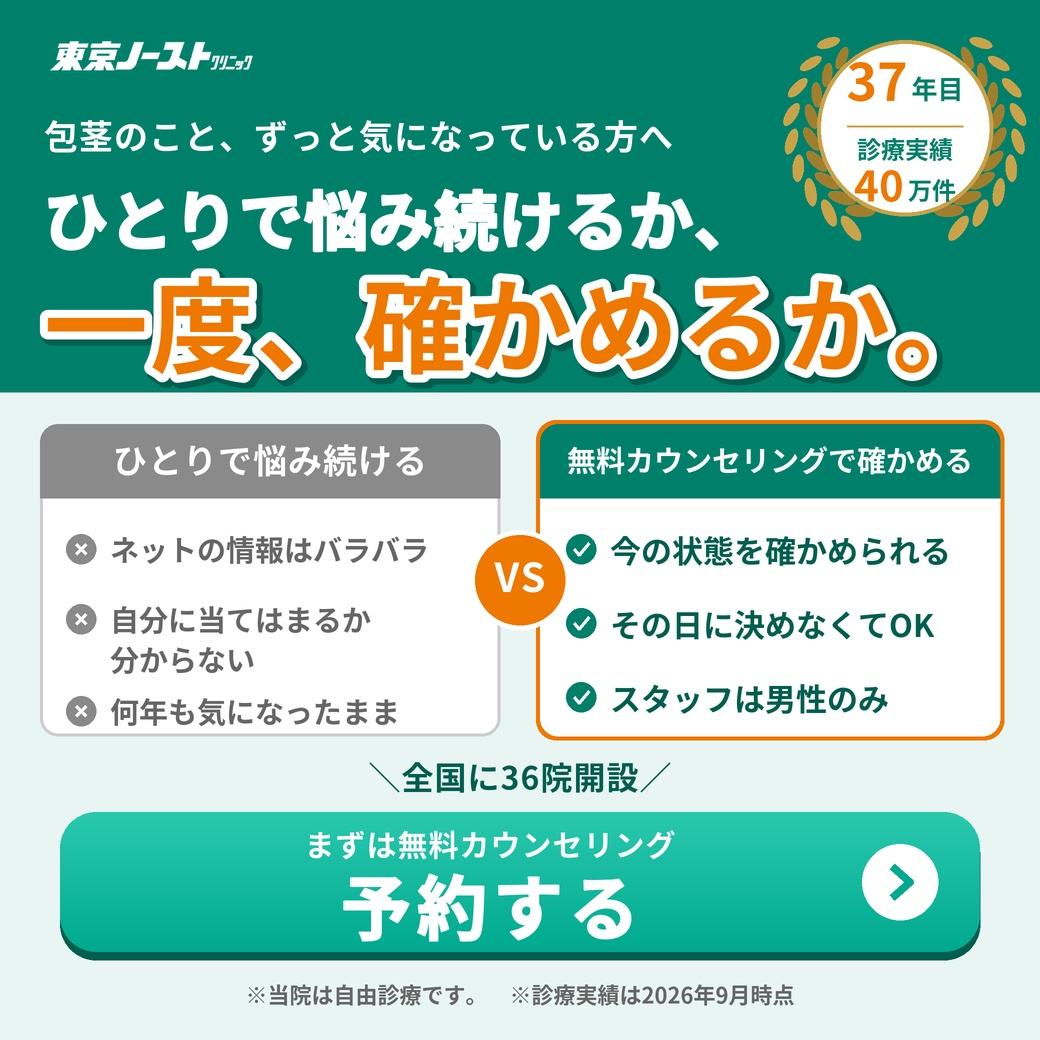
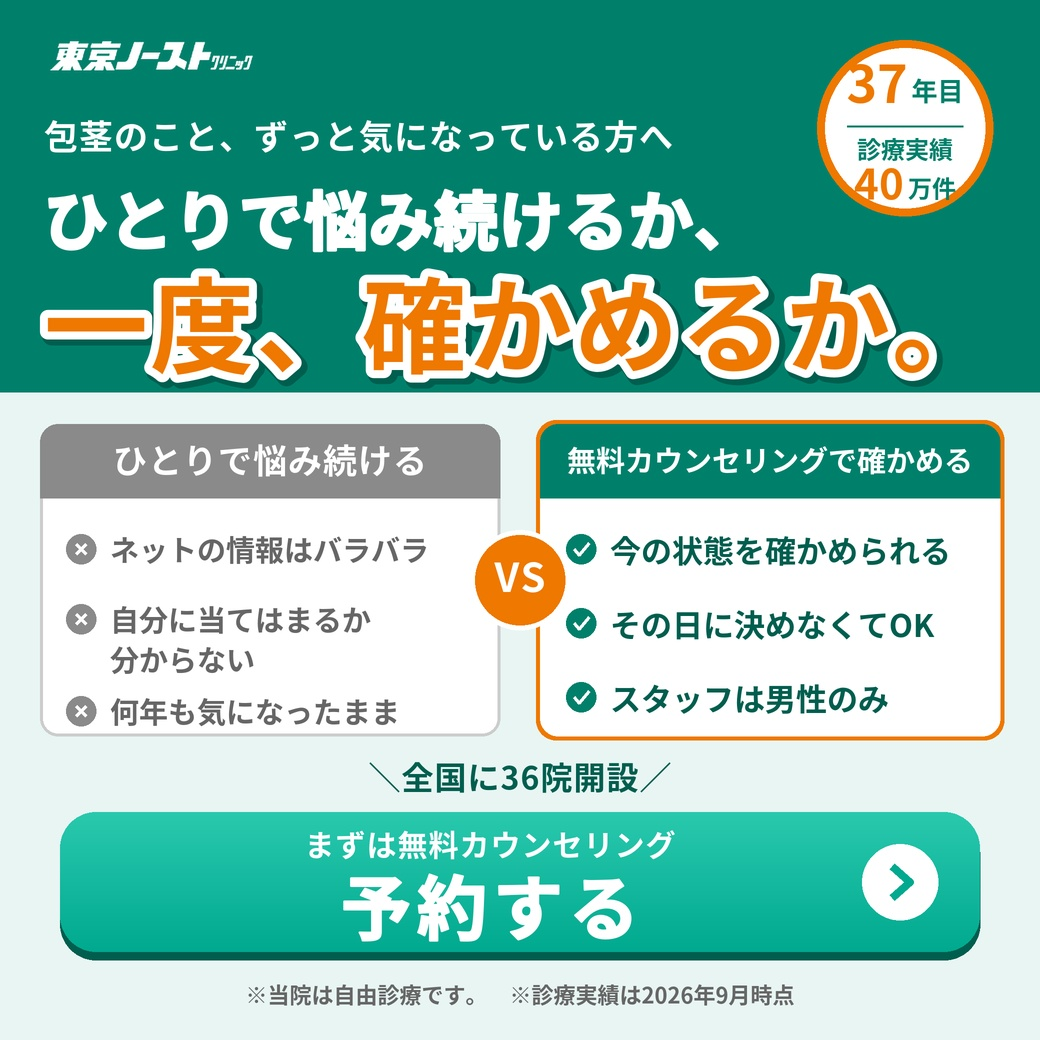
ノースト：ラフ3つから月桂樹を外し、過去のバナーと同じ白い円＋オレンジの輪に替えた
Claude-Session: https://claude.ai/code/session_01CnhQmwwAuo8Vn8DBTM29QG

Changed region(s): [[0.7385, 0.0308, 0.9846, 0.2462]]

diff --git a/_build/build_norst_1019_rough.py b/_build/build_norst_1019_rough.py
@@ -2,14 +2,13 @@
 
 競合から借りた2つを入れた形：
   ①安心の事実をアイコンで横に並べる列（完全個室／男性スタッフのみ／全国に36院／カウンセリング無料）
-  ②実績を月桂樹のバッジで見せる（37年目・診療実績40万件）
+  ②実績を白い円で見せる（37年目・診療実績40万件。過去のノーストのバナーと同じ白い円＋オレンジの輪）
 必ず残す4つ（緑が主・37年目・診療実績40万件・ロゴ）は入れている。
 ラフなので、文字の位置と量を見るためのもの。仕上げはデザイナーか画像生成で行う。
 
 使い方:
   python3 _build/build_norst_1019_rough.py [出力]
 """
-import math
 import sys
 from pathlib import Path
 from PIL import Image, ImageDraw, ImageFont
@@ -25,8 +24,6 @@ GREEN_DARK = (0x00, 0x5E, 0x4F)
 TEAL = (0x00, 0xA9, 0x8F)        # 明るい緑（HPのボタン）
 ORANGE = (0xEE, 0x78, 0x00)      # 強調のオレンジ
 PALE = (0xE8, 0xF5, 0xF3)        # 淡水色
-GOLD = (0xC9, 0xA2, 0x4A)
-GOLD_DARK = (0xA0, 0x7E, 0x2E)
 INK = (0x33, 0x33, 0x33)
 GRAY = (0x66, 0x66, 0x66)
 WHITE = (255, 255, 255)
@@ -74,46 +71,22 @@ def ellipse(d, box, fill=None, outline=None, width=1):
     d.ellipse((x1 * S, y1 * S, x2 * S, y2 * S), fill=fill, outline=outline, width=int(width * S))
 
 
-def leaf(canvas, cx, cy, length, angle_deg, color):
-    """細長い葉を1枚、中心(cx,cy)・向き angle で置く。"""
-    w, h = int(length * S), int(length * 0.42 * S)
-    im = Image.new("RGBA", (w, h), (0, 0, 0, 0))
-    ImageDraw.Draw(im).ellipse((0, 0, w - 1, h - 1), fill=color)
-    im = im.rotate(angle_deg, resample=Image.BICUBIC, expand=True)
-    canvas.paste(im, (int(cx * S - im.width / 2), int(cy * S - im.height / 2)), im)
-
-
-def laurel_badge(c, d, cx, cy, r):
-    """月桂樹のバッジ：白い円の中に 37年目／診療実績40万件。周りに金の葉。"""
-    # 葉（左右に1本ずつの枝）
-    for side in (-1, 1):
-        n = 9
-        for i in range(n):
-            t = i / (n - 1)
-            a = math.radians(118 + t * 110)          # 左の枝は 118°→228°（下から上へ）
-            if side == 1:
-                a = math.pi - a
-            lx = cx + (r + 16) * math.cos(a)
-            ly = cy + (r + 16) * math.sin(a)
-            tang = math.degrees(math.atan2(math.cos(a), -math.sin(a))) * -1
-            for k, (dr, col) in enumerate(((10, GOLD), (-10, GOLD_DARK))):
-                ox = lx + dr * math.cos(a)
-                oy = ly + dr * math.sin(a)
-                leaf(c, ox, oy, 30 - t * 6, tang + (25 if k == 0 else -25) * side, col)
-    ellipse(d, (cx - r, cy - r, cx + r, cy + r), fill=WHITE, outline=GOLD, width=4)
+def jisseki_badge(c, d, cx, cy, r):
+    """実績の円：白い円に太いオレンジの輪。37年目／診療実績40万件（過去のノーストのバナーの円と同じ形）。"""
+    ellipse(d, (cx - r, cy - r, cx + r, cy + r), fill=WHITE, outline=ORANGE, width=8)
     f1, f1s = font(52), font(26)
     f2, f3 = font(24), font(42)
     # 37年目
     w = tw(f1, "37") + tw(f1s, "年目") + 4
     x = cx - w / 2
-    text(d, "37", f1, x, cy - 66, ORANGE)
-    text(d, "年目", f1s, x + tw(f1, "37") + 4, cy - 66 + th(f1, "37") - th(f1s, "年目"), GREEN)
-    d.line(((cx - r + 30) * S, (cy - 2) * S, (cx + r - 30) * S, (cy - 2) * S), fill=GOLD, width=2 * S)
+    text(d, "37", f1, x, cy - 64, ORANGE)
+    text(d, "年目", f1s, x + tw(f1, "37") + 4, cy - 64 + th(f1, "37") - th(f1s, "年目"), GREEN)
+    d.line(((cx - r + 30) * S, (cy - 2) * S, (cx + r - 30) * S, (cy - 2) * S), fill=GREEN, width=2 * S)
     text_c(d, "診療実績", f2, cx, cy + 10, GREEN)
     w = tw(f3, "40") + tw(f2, "万件") + 4
     x = cx - w / 2
-    text(d, "40", f3, x, cy + 42, ORANGE)
-    text(d, "万件", f2, x + tw(f3, "40") + 4, cy + 42 + th(f3, "40") - th(f2, "万件"), GREEN)
+    text(d, "40", f3, x, cy + 40, ORANGE)
+    text(d, "万件", f2, x + tw(f3, "40") + 4, cy + 40 + th(f3, "40") - th(f2, "万件"), GREEN)
 
 
 def icon_door(d, cx, cy):
@@ -153,8 +126,8 @@ def build(out):
     logo = white_logo(230 * S)
     c.paste(logo, (36 * S, 30 * S), logo)
 
-    # 月桂樹のバッジ（右上）
-    laurel_badge(c, d, 905, 128, 88)
+    # 実績の円（右上）
+    jisseki_badge(c, d, 905, 128, 88)
 
     # 心の声（吹き出し）
     f_v = font(34)

diff --git a/_build/build_norst_rough_patterns.py b/_build/build_norst_rough_patterns.py
@@ -1,6 +1,6 @@
 """ノーストのバナーのラフ 3パターン（1040×1040）と、3つを並べた見比べ用の1枚。
 
-A＝安心の事実をアイコンで並べる＋実績のバッジ（10/19 No.7 のラフ。build_norst_1019_rough.py）
+A＝安心の事実をアイコンで並べる＋実績の円（10/19 No.7 のラフ。build_norst_1019_rough.py）
 B＝2つを左右に並べて比べる形（ひとりで悩み続ける／無料カウンセリングで確かめる）
 C＝本人の気持ちだけで押す一言（今年のうちに、自分のために一歩。）
 
@@ -18,7 +18,7 @@ sys.path.insert(0, str(Path(__file__).resolve().parent))
 import build_norst_1019_rough as A  # noqa: E402
 from build_norst_1019_rough import (  # noqa: E402
     S, W, H, GREEN, GREEN_DARK, TEAL, ORANGE, PALE, INK, GRAY, WHITE,
-    font, tw, th, text, text_c, rrect, ellipse, laurel_badge, white_logo,
+    font, tw, th, text, text_c, rrect, ellipse, jisseki_badge, white_logo,
     icon_door, icon_person, icon_pin,
 )
 
@@ -53,11 +53,11 @@ def footer(d):
 
 
 def head(c, d, panel_bottom):
-    """深緑の面＋ロゴ（左上）＋実績のバッジ（右上）。"""
+    """深緑の面＋ロゴ（左上）＋実績の円（右上）。"""
     d.rectangle((0, 0, W * S, panel_bottom * S), fill=GREEN)
     logo = white_logo(230 * S)
     c.paste(logo, (36 * S, 30 * S), logo)
-    laurel_badge(c, d, 905, 128, 88)
+    jisseki_badge(c, d, 905, 128, 88)
 
 
 def check(d, x, y, col):

diff --git a/_memory/INDEX.md b/_memory/INDEX.md
@@ -1,7 +1,7 @@
 # 📦 案件インデックス（おもちゃ箱の目次）
 
 **セッションを始めたら、Claudeはまずこれを読む。** 「あの案件どうなってた？」はここで解決する。
-最終更新：2026-10-08（ノースト：バナーのラフを3パターン＝見比べ用 `_images/norst_rough_ABC_sheet.jpg`（`_build/build_norst_rough_patterns.py`）。A 安心の事実を並べる／B 2つを比べる（ひとりで悩み続けるか、一度、確かめるか。）／C 自分のための一言（今年のうちに、自分のために一歩。）。どれを使うか確認待ち）／2026-10-08（ノースト：10/19 No.7（無料カウンセリング当日の流れ）のバナーのラフ＝`_images/norst_1019_rough_1040.jpg`（`_build/build_norst_1019_rough.py`）。競合から借りた2つ（アイコンの列＝完全個室・男性スタッフのみ・全国に36院・カウンセリング無料／月桂樹のバッジ＝37年目・診療実績40万件）を入れた。主役「その日に決めなくても、大丈夫です。」。確認待ち）／2026-10-07（ノースト：競合の画像5枚を受領＝`_data/norst/competitor_20261007_*.png`（上野の「抜糸あり・なし」を比べる形・アトム「悩むより、相談する。」「今こそ、自分のために一歩踏み出す。」・東京上野「通院1回、50分で包茎卒業!」・上野「50代からの新しい決断」）。借りられる4つ＝安心の事実をアイコンで並べる列（完全個室・男性スタッフのみ・全国に36院・その日に決めなくてOK）／実績を月桂樹のバッジで大きく（37年目・40万件）／本人の気持ちだけで押す一言／左右に並べて比べる形（ひとりで悩み続ける・無料カウンセリングで確かめる）。価格・治療の中身や期間・結果の約束・年齢と介護は借りない。推し＝10/19 No.7に列とバッジ、一言と比べる形は11月。OK待ち。全文は `_drafts/東京ノーストクリニック_投稿文_2026-10.md` 先頭）／2026-10-07（インクアート：10/19 ランチョンマットのバナーにサイトの写真2枚を入れた版＝`_images/inkart_1019_placemat_banner_v4_site_1040.jpg`（左＝商品の写真・右＝和紙しこくてんれい。殿村さんのスクショ2枚は `_data/printearth/lp_paper_placemat_slider_*_20261007.png`）。確認待ち）／2026-10-07（インクアート：10/19 ランチョンマットの配信時間・テキスト・フォーマル寄りの見本を出した。配信＝10/19(月) 18:05（月曜が注文数トップ・18時が注文率トップ）／アイテム名＝【新商品】紙製ランチョンマット印刷、50部から注文できます／テキスト244字。バナーは文字をこちらで組んだ（主役を明朝・飾りを外す・裏面は写真に「裏面印刷も可能！」）＝`_build/build_inkart_placemat_banner.py`・見本 `_images/inkart_1019_placemat_banner_v3_draft_1040.jpg`（写真2枚は仮）。欲しい写真＝「紙製ランチョンマット印刷」3枚と和紙の写真1枚。全文は `_2026-10.md` 先頭）／2026-10-07（インクアート：10/19 ランチョンマットのバナーv2の生成物を受領＝文字11か所とも一致・`_images/inkart_1019_placemat_banner_v2_generated.webp`。殿村さん「画像以外はいい／商品ぽくしたい、サイト内の画像を引っ張ってくるのが良いのでは」→ 文字の部分はそのまま、真ん中の絵（木のテーブルと2枚のマット）だけサイトの商品写真に入れ替える（こちらで貼り込む）。写真待ち＝ページのスライドの「紙製ランチョンマット印刷」3枚・「箔押し加工も対応」1枚・「両面フルカラー印刷で、裏面まで活用」の画像）／2026-10-07（インクアート：10/19 ランチョンマットのテキスト・備考はバナーが固まってから作り直す（殿村さん「テキストとかも後で作成しよう」））／2026-10-07（インクアート：10/19 ランチョンマットのバナーの画像生成プロンプトv2を出した（HPのトンマナ＝緑 #1C8B6A・オレンジ #FF8800・白地／主役「紙から／おもてなしを」・上の緑の帯に「新商品」「紙製ランチョンマット印刷」・表面と裏面の2枚を並べる・札3つ＝両面カラー印刷／50部から注文可能／箔押し加工にも対応・オレンジのボタン）。文字11か所。テキストの「50枚」→「50部」にそろえる提案。全文は `_2026-10.md` 先頭。HPのヘッダーのスクショ＝`_data/printearth/hp_header_20261007.png`。同日、10月の組み方（起・結＝年賀状、承・転＝カレンダーと新商品）は正しいと伝えた）／2026-10-07（インクアート：ランチョンマットの先方の返事（丸山さん）＝「超早割は問題ないので進めて／ランチョンマットは期間を定めた企画は無く通常の新商品追加なので商品紹介投稿になるかと」。殿村さん「配信するのか、しないのか」→ こちらの読み＝配信する（新商品紹介として。直されたのは「キャンペーン」という呼び方だけ・入れ替えに反対なし）。10/19＝ランチョンマット・卓上カレンダーは外れる。10/2の行はそのまま使える。LINE限定クーポンの打診は無し。最終判断は殿村さん）／2026-10-07（インクアート：2本目（No.28・10/13(火) オリジナルカレンダー）を12列の形で出した＝10月／10/13／火／18:05（案）／関連要素は空欄（確認中）／今年の年末のご挨拶に、オリジナルカレンダーを。／約700人（9月の配信先＋9/29に開いた人）／…／/lineup/calendar/／LINEOA／crm／20261013_Calendar_Original。同じ返事で10/6を開いた人のオーディエンス作成の声かけもした。行は `_drafts/プリントアース_LINEOA_配信企画案_2026-10.md` 先頭）／2026-10-07（共通：★配信の予定を伝えるときは殿村さん指定の12列の順で出す（殿村さん「今度からこのステータスにそって教えて欲しい」）＝配信月／配信日／曜日／配信予定時間／関連要素／企画案／セグメント／企画内容／URL／source／medium／campaign（source〜campaignの上の見出しがパラメルール1〜3）。シートに貼れるタブ区切りで。関連要素に何を入れるかは確認中。書き方はスキルの sheet_columns.md）／2026-10-07（インクアート：⏰10/6を開いた人のオーディエンスはまだ作らない（殿村さん「もう少し伸びを期待して／次の配信するときに教えてくれ」）。次の配信（10/13）のときにこちらから声をかける。名前＝2610_年賀状_開封・10/26の配信先に足すので遅くとも10/19のころまで・作れるのは配信から60日以内（12/5まで））／2026-10-07（インクアート：10/6(火)18:05の年賀状 超早割（ほぼ全員1,602人）の詳細画面を受領（殿村さん「これ以上は伸びなそう」）。開いた人は翌朝で270人台＝約17%（右端が切れて下1桁不明）。開封は配信した日の夜でほぼ決まり、最終は300人前後の見込み。同じ全員の9/29シール（6日後255人・15.6%）を半日で超えた。リンクを押した人は20人未満で表に出ない。次＝この回を開いた人のオーディエンスを作る（10/26締切の回に足す）・10/9にブロック3日分。記録＝`_drafts/プリントアース_数値分析_2026-10.md`（新設）・スクショ `_data/printearth/oam_message_1006_nenga_20261007.png`）／2026-10-06（インクアート：✅10月の1本目（年賀状 超早割）配信予約済（殿村さん）／ノースト：シートNo.6の行を受領（殿村さん「ええんとちゃうか」）。テキストは殿村さんの版で574字＝LINEの上限500字を超えている・行に前の予定の古いリンク（20261006_message_column&utm_content=banner）が残っている、の2点を伝えた。削る所は殿村さんの判断待ち）／2026-10-06（ノースト：緑を細くする件はやめ（殿村さん「なぁいいや」）。✅No.6の配信用画像＝v11に公式ロゴを左上に貼った `_images/norst_1012_banner_v11_logo_1040.jpg`）／2026-10-06（ノースト：v11も緑が約28%で細くならず（殿村さん「上の緑の帯が短くなってない」）。画像生成は文字の大きさを優先して高さの指定を守らない。案A＝上の帯「＼37年目、40万件の実績／」を外す（数字は円に残る・約21%）／案B＝主役を1行に（約18%）。どちらにするか確認中）／2026-10-06（ノースト：✅No.6画像の主役＝「明かりを消しても、／悩みは消えません。」。v11プロンプト（緑 約22%・ロゴは左上の角）と備考8行を出した。生成物待ち）／2026-10-06（ノースト：No.6画像の主役「先のばしにするほど…」は趣旨がずれている＋緑をもっと狭く（殿村さん）。主役の候補＝明かりを消しても、悩みは消えません。（推し）／彼女の前で、あと何回明かりを消しますか？／暗くしても、その悩みは消えません。緑は約30%→約22%（上の空きを作らずロゴは左上）。主役の返事待ち）／2026-10-06（ノースト：No.6のテキストをアイテム名の訴求から始める版に（殿村さん「これ訴求なら、テキストも訴求に合った文章じゃないとだめ」）＝495字・囲みにアイテム名の問い→札3つ→「明かりを消しても、悩みは消えません。」→主役と同じ一文。v10画像（深緑 約30%）受領・ロゴは左上に＝`_images/norst_1012_banner_v10_logo_1040.jpg`）／2026-10-06（ノースト：No.6のテキストを画像と同じ言葉にそろえて直した（殿村さん「テキストと画像の内容が少しあってない」）＝496字・札3つを✓で・主役と同じ「先のばしにするほど進むこともあります」・「スタッフは【全員男性】」「その日に決めなくても大丈夫です」）／2026-10-06（ノースト：v9は「画像の中身何も変わってないで」＝深緑の面が約41%→約34%と少ししか細くならず、上の空きが広がって見た目は同じ。v10プロンプト（深緑を上4分の1・上の空き40px・主役2行を高さ約130pxに）を出した）／2026-10-06（ノースト：No.6のテキストを9/16の実配信の型に倣って書き直し（殿村さん「一定以下の文章を倣うこと」）＝490字・※の3行が先頭・囲み「明かりを消して、やり過ごしてきた方へ」。この型はスキルの clients/norst.md に全文。備考はOK。v9画像は殿村さんが生成中）／2026-10-06（ノースト：✅No.6のアイテム名＝「彼女の前で、あと何回明かりを消しますか？」。テキスト案490字（1行目＝通知は「まだ大丈夫」のまま、何年たちましたか？ のまま）・備考8行・上の緑を細くしたv9プロンプト（深緑の面 約41%→約33%）を `_drafts/東京ノーストクリニック_投稿文_2026-10.md` 先頭と `.json` No.6 に。v9生成物待ち）／2026-10-06（ノースト：殿村さん案「彼女を後何回、電気でごまかせますか？」をマイルドにした3つ＝彼女の前で、あと何回／電気でごまかせますか？（推し・「彼女を」→「彼女の前で」だけ）／…電気を消して隠しますか？／…明かりを消しますか？。判断待ち）／2026-10-06（ノースト：No.6主役の折衷案3つ（殿村さん「女の要素も少し」）＝彼女の前で、あと何回／電気でごまかしますか？（推し）／隣で眠る彼女に、あと何回ごまかしますか？／彼女の前では、今夜も電気を消しますか？。判断待ち）／2026-10-06（ノースト：殿村さん案「彼女とする時、後どれだけ電気でごまかしますか？」→ こちらは「あと何回、電気でごまかしますか？」に戻すのを推す（性の場面まで書くと単なるエロ・画面を横から見られる・医療広告の品位・「彼女」だと既婚の人が外れる）。判断待ち）／2026-10-06（ノースト：No.6の主役は殿村さん案の2つに絞り中＝「その悩み、打ち明ける人いますか？」／「あと何回、電気でごまかしますか？」。こちらの推し＝前者（1本目の「隠し続けますか？」と分かれる・全員男性と無料カウンセリングが答えになる・先方確認で止まりにくい）。後者は別の回の切り札に）／2026-10-06（ノースト：No.6の主役「もっと気持ちが悪いの」（殿村さん）→ 本人しか知らない行動・気持ちを言い当てる案4つ＝今夜も、気づかれないように。（推し）／何年、ごまかしてきましたか？／その悩み、隣で眠る人は知っていますか？／あと何回、電気を消してごまかしますか？。選んでもらい中）／2026-10-06（ノースト：No.6の主役は「その悩み、あと何年抱えますか？」の方向で別案4つ＝いつまで抱えますか？／来年も抱えていますか？（推し）／10年後も、同じ悩みを抱えていますか？／ひとりで悩んだ時間、もう十分ではありませんか？。選んでもらい中）／2026-10-06（ノースト：No.6の主役の2行をもっと強くしたい（殿村さん「満足のいく、自分でいれていますか？みたいな訴求か、もっと強く」）。候補＝①満足のいく自分で、いられていますか？②いまの自分に、胸を張れていますか？③その悩み、あと何年抱えますか？（推し・1本目の「そのままの自分で大丈夫？」と似ないため）。認識合わせ中）／2026-10-06（ノースト：✅No.6の画像が決定（殿村さん「ええんちゃうか」）＝`_images/norst_1012_banner_v8_logo_1040.jpg`。文字すべて一致。ロゴは上の空きが狭く横166px。シートNo.6の備考8行を新しい画像に合わせて直した（`_2026-10.json`）。No.6の配信日は1本目（No.5）の配信日しだい）／2026-10-06（ノースト：No.6の画像 v8 プロンプト（全文）＝殿村さん「彼女側を明るくして、男側暗くしようぜ」。灯りは彼女の側、彼は暗がりの後ろ姿（主役）、彼女は彼の右奥で眠る、札は右端、影は暗い茶色。生成物待ち）／2026-10-06（ノースト：No.6の画像 v7 プロンプト（全文・添付なし）を出した＝彼が主役（ベッドの端で背中を少し丸めた後ろ姿・殿村さん「背筋は丸めてええ」）・彼女は手前で眠りほぼ隠れる・主役「先のばしにするほど、進むこともあります。」・札3行。生成物待ち）／2026-10-06（ノースト：No.6の絵の案を出し直し。手が重なりかけて引く案は殿村さん「コンセプトは包茎治療やで、単なるエロになってない？」で不採用。新しい案＝彼が一人でベッドの端に腰かける後ろ姿が主役・奥で彼女が眠っている程度。OK待ち）／2026-10-06（ノースト：No.6の絵も少し変えてよい（殿村さん）。案＝2人のポーズを札3枚目「ふたりきりだと、ためらう」に合わせる（手が重なりかけて少し引く・わずかなすき間）。認識合わせ中）／2026-10-06（ノースト：✅No.6（2本目）は「まだ大丈夫」の訴求で決定。画像はv6（寄り添う2人＝コンプレックス＋少しエロ）を使い、文字だけ差し替え＝主役「先のばしにするほど、／進むこともあります。」、札「まだ大丈夫、と思ってきた／年々、気になってきた／ふたりきりだと、ためらう」。v6を添付して文字だけ直すプロンプトと作り直し用の全文を `_drafts/東京ノーストクリニック_投稿文_2026-10.md` 先頭に。シートNo.6の備考は画像が決まってから書き直す）／2026-10-05（ノースト：今朝の画像（v6・緑）は今月2本目（No.6・10/12）に回し、別の訴求で出す（殿村さん）。推し＝No.6に入れてある「まだ大丈夫」のまま、何年たちましたか？（悩み訴求）。v6の主役は1本目の画像と同じ言葉なので、主役と悩みの3行を変える案。認識合わせ中）／2026-10-05（ノースト：⏸ No.5は阿久津さんに確認依頼中・返事待ち。1（本日配信）なら画像を1枚目に差し替えて予約、2なら指摘をもらって直す）／2026-10-05（ノースト：殿村さんの短い版を確認＝ほぼ良し。選択肢の上に「本日の配信可否につきまして、以下の番号にてご指示いただけますと幸いです。」を戻す案・メンションの付け忘れ注意を返した）／2026-10-05（ノースト：阿久津さんへの連絡文は殿村さんの版で送る（1行目で「本日配信予定（10/5分）の件でご相談」→理由→状況の質問→番号で指示を、の形）。社内の確認の連絡文はこの形を使う）／2026-10-05（ノースト：阿久津さんへの連絡文の最終＝締めは「本日配信したいのですが、いかがでしょうか。」＋9/30と同じ2択（1.本日この内容で配信する／2.変更・調整あり）。前の段の「遅くとも明日には」は消した（聞く日付は本日の1つだけ）。全文は `_drafts/東京ノーストクリニック_投稿文_2026-10.md` 先頭）／2026-10-05（ノースト：先に出すのは1枚目＝阿久津さんに共有済みの画像 `_images/norst_1005_banner_before_1040.jpg`。2週目以降は2枚目（v6・緑が主）の形に寄せる。阿久津さんへの連絡文は「今日の可否／今月は毎週なので今日か明日に」の版に作り直し）／2026-10-05（ノースト：配信は阿久津 執行役員部長の確認（1.本日配信／2.変更・調整あり）を通してから。画像の主役「いざというとき、そのままの自分で大丈夫？」は阿久津さんの指摘（9/30）。今日配信したい旨の連絡文を作った）／2026-10-05（ノースト：No.5は来週にずれる可能性あり（殿村さん）。ずれたら多少直して出す。必ず直すのはリンクの日付だけ。No.6・No.7も後ろにずらすか要判断。修正の中身は確認中）／2026-10-05（ノースト：No.5（10/5）の仮最終の配信方針・内容をまとめた＝`_drafts/東京ノーストクリニック_投稿文_2026-10.md` 先頭。アイテム名・画像（v6＋ロゴ）・テキスト499字・リンク2本・男性全員・21:00（仮））／2026-10-05（ノースト：No.5のプレビューを確認＝テキスト・画像（v6＋ロゴ）・アイテム名とも一致。テキストの最後（電話番号の行）が半分で切れているのはプレビューの表示の都合。確実に見るならテスト配信）／2026-10-05（ノースト：✅No.5のアイテム名は今のまま「見せるのが恥ずかしい…」大切な人にも、隠し続けますか？（殿村さん「おけいです」）。テキストはシートNo.5の文 499字を渡した）／2026-10-05（ノースト：No.5のアイテム名に殿村さんが【特別案内】人肌恋しい季節…朗報です、を検討 → こちらは今の「見せるのが恥ずかしい…」大切な人にも、隠し続けますか？を推す（画像の札・本文とつながる／「朗報です」は3回目／「気になっている方」はぼんやり）。柔らかくするなら9/29の「その気持ち、ひとりで抱えていませんか？」版。判断待ち）／2026-10-05（ノースト：v6の生成物＝文字16か所一致・深緑は無地・寄り添う2人。ロゴを貼った配信用＝`_images/norst_1005_banner_v6_logo_1040.jpg`。別のAIの改善点6つは今日は取り入れない（理由は投稿文_2026-10.md 先頭））／2026-10-05（ノースト：v5の光の筋は「漫画の登場シーン」で不採用、寄り添う2人は残す。余白はB（飾りなし・上の2行を少し大きく）→ v6プロンプトを `_drafts/東京ノーストクリニック_投稿文_2026-10.md` 先頭に。生成物待ち）／2026-10-05（ノースト：殿村さん「左・右上の余白が気になる」「2人を大きくする案を見たい」→ v5プロンプト（2人を絵の主役に＋上の2行を少し広げ、深緑の面にごく薄い放射状の光の筋）を `_drafts/東京ノーストクリニック_投稿文_2026-10.md` 先頭に。生成物待ち）／2026-10-05（ノースト：No.5の画像はv4（肩に頭をあずける版）で十分いける、と返した（殿村さん「こんなバナーもええかぁ」）。ロゴを貼った配信用＝`_images/norst_1005_banner_v4_logo_1040.jpg`）／2026-10-05（ノースト：次回（No.5）の配信内容の想定を仮で出した＝`_drafts/東京ノーストクリニック_投稿文_2026-10.md` 先頭。画像は最後の版（v4）、テキストはシートNo.5の文（499字・URLは20261005_Complex_text）を仮で。未決＝画像を2人を大きくした版にするか／テキストを9/30の「元の案」（358字）にするか）／2026-10-05（インクアート：10/5は下書き保存済み（殿村さん「直ってる大丈夫」）。プレビューでテキストの最後の「👇ご注文はこちらから！」が抜けていた → 意図でなければ足すよう伝えた。「す」だけ落ちる行は「印刷は／それ以降となります」に）／2026-10-05（インクアート：✅10/5のアイテム名＝殿村さん案「✨今年の年賀状、超早割で最大25%OFF！」（21字）で決定）／2026-10-05（インクアート：アイテム名の見直しの推しを「✨毎年の年賀状、今年は超早割で最大25%OFF」に変更（「取引先への」は取引先に出さない人が読み飛ばしやすい）。utm_campaignは前の形とも違いは名前だけで、どちらでも計測できる（殿村さん「そんなに変わらん」）。GA4は `20261005` で探す）／2026-10-05（インクアート：配信のutm_campaignは9/10の実配信 `20260910_Registration_Milion_Coupon` の形にそろえる。10/5のリンク＝`…/lineup/nenga/?utm_source=LINEOA&utm_medium=crm&utm_campaign=20261005_NewYearCard_EarlyBird`。設定画面は確認済み。アイテム名の絵文字は設定のときに試して決める（通った✨／はじかれた🎍）。アイテム名の見直しの推し＝「✨取引先への年賀状、超早割で最大25%OFF」（判断待ち））／2026-10-05（インクアート：10/5の設定中、アイテム名の🎍が「利用できない文字」でエラー → ✨に差し替え）／2026-10-05（インクアート：9/29シール回の詳細画面を再受領＝開いた人255・15.6%（10/1時点236）。約8割は配信当日の夜に開封。テキストの表示は20未満、バナーは281回。実際のアイテム名は「【1枚からOK】✨キラキラシールも好きな形も」）／2026-10-02（インクアート：先方への確認文は殿村さんの版で送る。ランチョンマットは「10/19の卓上カレンダーと組み替えるか」を先方に確認＝10/13のオリジナルカレンダーは残る。返事待ち）／2026-10-02（インクアート：10/5の先方への確認文の下書きを受領。配信は10/5 18:05。送る前の直し4点＝配信内容を確定版に／セグメント「20～64歳」→全員の予定（答え待ち）／ランチョンマットは「キャンペーン内容」でなく「10/19の新商品」と書く／かっこの半角）／2026-10-02（インクアート：✅10/5（年賀状 超早割）の配信文とアイテム名が確定＝殿村さん「これでええんちゃうか」。期限の行は「～10月31日までの／受付分が対象です」）／2026-10-02（インクアート：10/5（年賀状 超早割）はアイテム名を修正なし（「🎍年賀状印刷が最大25%OFF！超早割がスタート」）、配信文は2か所だけ直す＝「ご注文分」→バナーと同じ「受付分」・長い行を12字以内に折る。全文は `_2026-10.md` 先頭）／2026-10-02（インクアート：10/5（年賀状 超早割）の完成版バナーを受領＝`_images/inkart_1005_nenga_hayawari_kansei_1040.jpg`。アイテム名の推し＝「🎍年賀状印刷が最大25%OFF！超早割がスタート」（24字）。配信の推し＝10/5(月) 17:05・全員（9/29の全員配信とそろえる）。テキスト「ご注文分」とバナー「受付分まで」の言い方が1か所違う。先方確認のときにランチョンマットの回と並び替えも一緒に）／2026-10-02（ノースト：No.5（10/5）の画像v4のプロンプトを出した＝寝室の絵だけ色気を足す（肩に頭をあずける・手が重なる・灯りは枕元の1つ）。v3＋ロゴ＝`_images/norst_1005_banner_v3_logo_1040.jpg`。生成物待ち→ロゴを貼り込む→文章とシートNo.5の備考。必ず残す4つ＝緑が主・37年目・診療実績40万件・ロゴ）／2026-10-02（インクアート：ランチョンマットの回（No.29・10/19）と並び替えは⏸先方確認待ち。10/5（年賀状 超早割）のバナーを先方に確認してもらうときに一緒に確認し、変更が出たらすぐ直す（殿村さん「変えるなら直ちに変えよう」））／2026-10-02（インクアート：ランチョンマットの回をシートの行にした＝No.29（10/19）・21列・`_drafts/プリントアース_LINEOA_配信企画案_2026-10.json`。テキスト・備考・画像生成プロンプト全文は `_2026-10.md` 先頭。シートはNo.28（10/13）に卓上カレンダーの中身を移す）／2026-10-02（インクアート：新商品「紙製ランチョンマット」を10月に入れる。並び＝10/5 年賀状→10/13 卓上カレンダー→10/19 ランチョンマット→10/26 締切（殿村さん案）。LP本文は `_data/printearth/lp_paper_placemat_20261002.md`）／2026-10-01（ノースト10月：殿村さんがシートのNo.5を貼付→ 10/5(月) No.5・10/12(月・祝) No.6・10/19(月) No.7 に変更。No.6・7をNo.5と同じ値（全50列）で出した＝`_drafts/東京ノーストクリニック_投稿文_2026-10.json`。No.5はテキストのURLの日付（→20261005_Complex_text）とアイテム名の空欄だけ直す）／2026-10-01（ノースト10月：スキルで3本を作成＝10/3・10/10・10/17(土)。ノーストのシートの並び（27列）で出せるようにした。空欄の列は9月の行をもらって埋める）／2026-10-01（企画案を自動で出す仕組み①＝スキル `lineoa-monthly-plan` を新設。3案件・シート21列。確認中＝納品日の書き方・aaの中身。②材料の置き場所・③月1回の自動下書きはまだ）／2026-10-01（インクアート：10月の配信先＝10/5（超早割スタート）は全員で確定（殿村さん「最初は全員だよ」）・10/13・10/19は約700人・10/26は約700人＋10/5に開いた人。配信戦略の簡潔版を `_drafts/プリントアース_10月の配信戦略まとめ_2026-09-30.md` 先頭に）／2026-10-01（インクアート：前提＝友だちが多いのはCPF（4〜8月の友だち追加広告・流入の9割以上）で集めたから。実際の相手は反応する約650人。9月のまとめの先頭に入れた）／2026-10-01（インクアート：9月の配信結果を簡潔にまとめた＝分析ファイル末尾。GAは件数変わらず＝会員登録4・購入4、全部リッチメニュー経由）／2026-10-01（インクアート：9月の実績を受領＝9/29全員配信 開封14.4%・ブロック2日で+25／9月 新しい友だち+9・ブロック+72。10月の配信先＝9月の約650人＋9/29に開いた人。GAは殿村さんが依頼中）／2026-10-01（ハウス食品：ステイ）／2026-10-01（ハウス食品：全体設計も共有用のmarkdownにまとめた）／2026-10-01（ハウス食品：運用計画を共有用のmarkdownにまとめた）／2026-10-01（ハウス食品：最初の1週間の徹底・ステップ配信例5本・冬の企画案をざっくり置いて本日終了）／2026-10-01（ハウス食品：運用の落とし込み＝目標→1日の数字とやることを設計ファイルに・スライドにはしない）／2026-10-01（ハウス食品：方針確定＝グループのLINEとは別にカモンハウスのLINEを新しく作って運用・コンセプト＝食と健康でつながるコミュニティ）／2026-10-01（ハウス食品：「今あるLINE」＝カモンハウスの広告用のLINEと訂正。新しく作る／今あるのを動かす の違いと推しを設計ファイルに）／2026-10-01（ハウス食品：①ステップ初動5本・2週間 ②通知メッセなし ③既存会員への告知はメルマガ頼み、で決定。根拠と「今あるグループ公式LINEを動かす場合」の違いを設計ファイルに）／2026-10-01（ハウス食品：ver2を基に全体設計・初動設計の骨組みを提案）／2026-10-01（ハウス食品グループ＝Come on Houseが3件目になりそう・提案書と案件メモを保存）／2026-09-30（インクアート：10月の配信戦略まとめを作成／ノースト：3本目は配信予約済・先方確認待ち）／2026-09-30（ノースト：3本目はテキスト＝元の案・アイテム名＝直した案で配信）／2026-09-30（インクアート：サンクス＋離脱防止の提案PPTX 12枚を縮小版に作り直し＝`20260930_インクアート様_LINE公式アカウント_10月以降のご提案.pptx`）／2026-09-29 20時半（ノースト：3本目は9/30(水)に変更）／2026-09-29 20時（ノースト：9/29は候補A＝直した版／候補B＝元の版の2つを保持・先方確認待ち）／2026-09-29（ノースト：9/29の3本目をシートどおり＝男性全員で確定・バナー `_images/norst_0929_banner.webp`／インクアート：No.25シールを9/29 17:05・全員 約1,635人で配信確定。バナーは先方差し戻しを受けて「自由形状カット・ホログラム加工」版に差し替え。9月の数値分析は3本分済み・ノーストの分も受領済み）／2026-09-25（ノースト：10/9の1本目が本文・備考・プロンプトまで完成＝悩み訴求「まだ大丈夫」のまま、何年たちましたか？。詳細は下の表の行）／**ノーストのSW訴求（新2本目）は9/24に配信済み（9/25昼の時点で反響なし）**／それ以前 2026-09-24（ノースト：9/25＝新2本目「シルバーウィーク訴求」全配信7,347・21:00で**配信予約済み**→実際は9/24配信・通数の数え方を訂正（1配信＝1人1通）・3本目は9/29のまま・旧2本目は無視／インクアート：10月ステイ解除・先方依頼の「年賀状 超早割（最大25%OFF・～10/31）」を10/5に置き年賀状の回は1本に。No.24は名刺押しに微修正・バナーは実物名刺の写真で確定（先方確認中）。10月はNo.27の8欄が揃い一旦ステイ。**同日、配信設計（9/25 No.24・9/28 No.25）を確定**＝No.23と同じ設定（20〜64歳・テキスト→バナー）・No.24のutmは20260925に・9月通数 約4,100／5,000・10月はシート4本とも全員で5,600なので10/26だけ絞り込み・待ち＝9/18の実績4つ）
+最終更新：2026-10-08（ノースト：ラフ3つから月桂樹を外し、過去のバナーと同じ白い円＋オレンジの輪に替えた（殿村さん「ノーストに月桂樹ではないっていう話じゃないの？」）。月桂樹は競合の飾りなので使わない）／2026-10-08（ノースト：バナーのラフを3パターン＝見比べ用 `_images/norst_rough_ABC_sheet.jpg`（`_build/build_norst_rough_patterns.py`）。A 安心の事実を並べる／B 2つを比べる（ひとりで悩み続けるか、一度、確かめるか。）／C 自分のための一言（今年のうちに、自分のために一歩。）。どれを使うか確認待ち）／2026-10-08（ノースト：10/19 No.7（無料カウンセリング当日の流れ）のバナーのラフ＝`_images/norst_1019_rough_1040.jpg`（`_build/build_norst_1019_rough.py`）。競合から借りた2つ（アイコンの列＝完全個室・男性スタッフのみ・全国に36院・カウンセリング無料／月桂樹のバッジ＝37年目・診療実績40万件）を入れた。※月桂樹は同日に外して白い円に替えた。主役「その日に決めなくても、大丈夫です。」。確認待ち）／2026-10-07（ノースト：競合の画像5枚を受領＝`_data/norst/competitor_20261007_*.png`（上野の「抜糸あり・なし」を比べる形・アトム「悩むより、相談する。」「今こそ、自分のために一歩踏み出す。」・東京上野「通院1回、50分で包茎卒業!」・上野「50代からの新しい決断」）。借りられる4つ＝安心の事実をアイコンで並べる列（完全個室・男性スタッフのみ・全国に36院・その日に決めなくてOK）／実績を月桂樹のバッジで大きく（37年目・40万件）／本人の気持ちだけで押す一言／左右に並べて比べる形（ひとりで悩み続ける・無料カウンセリングで確かめる）。価格・治療の中身や期間・結果の約束・年齢と介護は借りない。推し＝10/19 No.7に列とバッジ、一言と比べる形は11月。OK待ち。全文は `_drafts/東京ノーストクリニック_投稿文_2026-10.md` 先頭）／2026-10-07（インクアート：10/19 ランチョンマットのバナーにサイトの写真2枚を入れた版＝`_images/inkart_1019_placemat_banner_v4_site_1040.jpg`（左＝商品の写真・右＝和紙しこくてんれい。殿村さんのスクショ2枚は `_data/printearth/lp_paper_placemat_slider_*_20261007.png`）。確認待ち）／2026-10-07（インクアート：10/19 ランチョンマットの配信時間・テキスト・フォーマル寄りの見本を出した。配信＝10/19(月) 18:05（月曜が注文数トップ・18時が注文率トップ）／アイテム名＝【新商品】紙製ランチョンマット印刷、50部から注文できます／テキスト244字。バナーは文字をこちらで組んだ（主役を明朝・飾りを外す・裏面は写真に「裏面印刷も可能！」）＝`_build/build_inkart_placemat_banner.py`・見本 `_images/inkart_1019_placemat_banner_v3_draft_1040.jpg`（写真2枚は仮）。欲しい写真＝「紙製ランチョンマット印刷」3枚と和紙の写真1枚。全文は `_2026-10.md` 先頭）／2026-10-07（インクアート：10/19 ランチョンマットのバナーv2の生成物を受領＝文字11か所とも一致・`_images/inkart_1019_placemat_banner_v2_generated.webp`。殿村さん「画像以外はいい／商品ぽくしたい、サイト内の画像を引っ張ってくるのが良いのでは」→ 文字の部分はそのまま、真ん中の絵（木のテーブルと2枚のマット）だけサイトの商品写真に入れ替える（こちらで貼り込む）。写真待ち＝ページのスライドの「紙製ランチョンマット印刷」3枚・「箔押し加工も対応」1枚・「両面フルカラー印刷で、裏面まで活用」の画像）／2026-10-07（インクアート：10/19 ランチョンマットのテキスト・備考はバナーが固まってから作り直す（殿村さん「テキストとかも後で作成しよう」））／2026-10-07（インクアート：10/19 ランチョンマットのバナーの画像生成プロンプトv2を出した（HPのトンマナ＝緑 #1C8B6A・オレンジ #FF8800・白地／主役「紙から／おもてなしを」・上の緑の帯に「新商品」「紙製ランチョンマット印刷」・表面と裏面の2枚を並べる・札3つ＝両面カラー印刷／50部から注文可能／箔押し加工にも対応・オレンジのボタン）。文字11か所。テキストの「50枚」→「50部」にそろえる提案。全文は `_2026-10.md` 先頭。HPのヘッダーのスクショ＝`_data/printearth/hp_header_20261007.png`。同日、10月の組み方（起・結＝年賀状、承・転＝カレンダーと新商品）は正しいと伝えた）／2026-10-07（インクアート：ランチョンマットの先方の返事（丸山さん）＝「超早割は問題ないので進めて／ランチョンマットは期間を定めた企画は無く通常の新商品追加なので商品紹介投稿になるかと」。殿村さん「配信するのか、しないのか」→ こちらの読み＝配信する（新商品紹介として。直されたのは「キャンペーン」という呼び方だけ・入れ替えに反対なし）。10/19＝ランチョンマット・卓上カレンダーは外れる。10/2の行はそのまま使える。LINE限定クーポンの打診は無し。最終判断は殿村さん）／2026-10-07（インクアート：2本目（No.28・10/13(火) オリジナルカレンダー）を12列の形で出した＝10月／10/13／火／18:05（案）／関連要素は空欄（確認中）／今年の年末のご挨拶に、オリジナルカレンダーを。／約700人（9月の配信先＋9/29に開いた人）／…／/lineup/calendar/／LINEOA／crm／20261013_Calendar_Original。同じ返事で10/6を開いた人のオーディエンス作成の声かけもした。行は `_drafts/プリントアース_LINEOA_配信企画案_2026-10.md` 先頭）／2026-10-07（共通：★配信の予定を伝えるときは殿村さん指定の12列の順で出す（殿村さん「今度からこのステータスにそって教えて欲しい」）＝配信月／配信日／曜日／配信予定時間／関連要素／企画案／セグメント／企画内容／URL／source／medium／campaign（source〜campaignの上の見出しがパラメルール1〜3）。シートに貼れるタブ区切りで。関連要素に何を入れるかは確認中。書き方はスキルの sheet_columns.md）／2026-10-07（インクアート：⏰10/6を開いた人のオーディエンスはまだ作らない（殿村さん「もう少し伸びを期待して／次の配信するときに教えてくれ」）。次の配信（10/13）のときにこちらから声をかける。名前＝2610_年賀状_開封・10/26の配信先に足すので遅くとも10/19のころまで・作れるのは配信から60日以内（12/5まで））／2026-10-07（インクアート：10/6(火)18:05の年賀状 超早割（ほぼ全員1,602人）の詳細画面を受領（殿村さん「これ以上は伸びなそう」）。開いた人は翌朝で270人台＝約17%（右端が切れて下1桁不明）。開封は配信した日の夜でほぼ決まり、最終は300人前後の見込み。同じ全員の9/29シール（6日後255人・15.6%）を半日で超えた。リンクを押した人は20人未満で表に出ない。次＝この回を開いた人のオーディエンスを作る（10/26締切の回に足す）・10/9にブロック3日分。記録＝`_drafts/プリントアース_数値分析_2026-10.md`（新設）・スクショ `_data/printearth/oam_message_1006_nenga_20261007.png`）／2026-10-06（インクアート：✅10月の1本目（年賀状 超早割）配信予約済（殿村さん）／ノースト：シートNo.6の行を受領（殿村さん「ええんとちゃうか」）。テキストは殿村さんの版で574字＝LINEの上限500字を超えている・行に前の予定の古いリンク（20261006_message_column&utm_content=banner）が残っている、の2点を伝えた。削る所は殿村さんの判断待ち）／2026-10-06（ノースト：緑を細くする件はやめ（殿村さん「なぁいいや」）。✅No.6の配信用画像＝v11に公式ロゴを左上に貼った `_images/norst_1012_banner_v11_logo_1040.jpg`）／2026-10-06（ノースト：v11も緑が約28%で細くならず（殿村さん「上の緑の帯が短くなってない」）。画像生成は文字の大きさを優先して高さの指定を守らない。案A＝上の帯「＼37年目、40万件の実績／」を外す（数字は円に残る・約21%）／案B＝主役を1行に（約18%）。どちらにするか確認中）／2026-10-06（ノースト：✅No.6画像の主役＝「明かりを消しても、／悩みは消えません。」。v11プロンプト（緑 約22%・ロゴは左上の角）と備考8行を出した。生成物待ち）／2026-10-06（ノースト：No.6画像の主役「先のばしにするほど…」は趣旨がずれている＋緑をもっと狭く（殿村さん）。主役の候補＝明かりを消しても、悩みは消えません。（推し）／彼女の前で、あと何回明かりを消しますか？／暗くしても、その悩みは消えません。緑は約30%→約22%（上の空きを作らずロゴは左上）。主役の返事待ち）／2026-10-06（ノースト：No.6のテキストをアイテム名の訴求から始める版に（殿村さん「これ訴求なら、テキストも訴求に合った文章じゃないとだめ」）＝495字・囲みにアイテム名の問い→札3つ→「明かりを消しても、悩みは消えません。」→主役と同じ一文。v10画像（深緑 約30%）受領・ロゴは左上に＝`_images/norst_1012_banner_v10_logo_1040.jpg`）／2026-10-06（ノースト：No.6のテキストを画像と同じ言葉にそろえて直した（殿村さん「テキストと画像の内容が少しあってない」）＝496字・札3つを✓で・主役と同じ「先のばしにするほど進むこともあります」・「スタッフは【全員男性】」「その日に決めなくても大丈夫です」）／2026-10-06（ノースト：v9は「画像の中身何も変わってないで」＝深緑の面が約41%→約34%と少ししか細くならず、上の空きが広がって見た目は同じ。v10プロンプト（深緑を上4分の1・上の空き40px・主役2行を高さ約130pxに）を出した）／2026-10-06（ノースト：No.6のテキストを9/16の実配信の型に倣って書き直し（殿村さん「一定以下の文章を倣うこと」）＝490字・※の3行が先頭・囲み「明かりを消して、やり過ごしてきた方へ」。この型はスキルの clients/norst.md に全文。備考はOK。v9画像は殿村さんが生成中）／2026-10-06（ノースト：✅No.6のアイテム名＝「彼女の前で、あと何回明かりを消しますか？」。テキスト案490字（1行目＝通知は「まだ大丈夫」のまま、何年たちましたか？ のまま）・備考8行・上の緑を細くしたv9プロンプト（深緑の面 約41%→約33%）を `_drafts/東京ノーストクリニック_投稿文_2026-10.md` 先頭と `.json` No.6 に。v9生成物待ち）／2026-10-06（ノースト：殿村さん案「彼女を後何回、電気でごまかせますか？」をマイルドにした3つ＝彼女の前で、あと何回／電気でごまかせますか？（推し・「彼女を」→「彼女の前で」だけ）／…電気を消して隠しますか？／…明かりを消しますか？。判断待ち）／2026-10-06（ノースト：No.6主役の折衷案3つ（殿村さん「女の要素も少し」）＝彼女の前で、あと何回／電気でごまかしますか？（推し）／隣で眠る彼女に、あと何回ごまかしますか？／彼女の前では、今夜も電気を消しますか？。判断待ち）／2026-10-06（ノースト：殿村さん案「彼女とする時、後どれだけ電気でごまかしますか？」→ こちらは「あと何回、電気でごまかしますか？」に戻すのを推す（性の場面まで書くと単なるエロ・画面を横から見られる・医療広告の品位・「彼女」だと既婚の人が外れる）。判断待ち）／2026-10-06（ノースト：No.6の主役は殿村さん案の2つに絞り中＝「その悩み、打ち明ける人いますか？」／「あと何回、電気でごまかしますか？」。こちらの推し＝前者（1本目の「隠し続けますか？」と分かれる・全員男性と無料カウンセリングが答えになる・先方確認で止まりにくい）。後者は別の回の切り札に）／2026-10-06（ノースト：No.6の主役「もっと気持ちが悪いの」（殿村さん）→ 本人しか知らない行動・気持ちを言い当てる案4つ＝今夜も、気づかれないように。（推し）／何年、ごまかしてきましたか？／その悩み、隣で眠る人は知っていますか？／あと何回、電気を消してごまかしますか？。選んでもらい中）／2026-10-06（ノースト：No.6の主役は「その悩み、あと何年抱えますか？」の方向で別案4つ＝いつまで抱えますか？／来年も抱えていますか？（推し）／10年後も、同じ悩みを抱えていますか？／ひとりで悩んだ時間、もう十分ではありませんか？。選んでもらい中）／2026-10-06（ノースト：No.6の主役の2行をもっと強くしたい（殿村さん「満足のいく、自分でいれていますか？みたいな訴求か、もっと強く」）。候補＝①満足のいく自分で、いられていますか？②いまの自分に、胸を張れていますか？③その悩み、あと何年抱えますか？（推し・1本目の「そのままの自分で大丈夫？」と似ないため）。認識合わせ中）／2026-10-06（ノースト：✅No.6の画像が決定（殿村さん「ええんちゃうか」）＝`_images/norst_1012_banner_v8_logo_1040.jpg`。文字すべて一致。ロゴは上の空きが狭く横166px。シートNo.6の備考8行を新しい画像に合わせて直した（`_2026-10.json`）。No.6の配信日は1本目（No.5）の配信日しだい）／2026-10-06（ノースト：No.6の画像 v8 プロンプト（全文）＝殿村さん「彼女側を明るくして、男側暗くしようぜ」。灯りは彼女の側、彼は暗がりの後ろ姿（主役）、彼女は彼の右奥で眠る、札は右端、影は暗い茶色。生成物待ち）／2026-10-06（ノースト：No.6の画像 v7 プロンプト（全文・添付なし）を出した＝彼が主役（ベッドの端で背中を少し丸めた後ろ姿・殿村さん「背筋は丸めてええ」）・彼女は手前で眠りほぼ隠れる・主役「先のばしにするほど、進むこともあります。」・札3行。生成物待ち）／2026-10-06（ノースト：No.6の絵の案を出し直し。手が重なりかけて引く案は殿村さん「コンセプトは包茎治療やで、単なるエロになってない？」で不採用。新しい案＝彼が一人でベッドの端に腰かける後ろ姿が主役・奥で彼女が眠っている程度。OK待ち）／2026-10-06（ノースト：No.6の絵も少し変えてよい（殿村さん）。案＝2人のポーズを札3枚目「ふたりきりだと、ためらう」に合わせる（手が重なりかけて少し引く・わずかなすき間）。認識合わせ中）／2026-10-06（ノースト：✅No.6（2本目）は「まだ大丈夫」の訴求で決定。画像はv6（寄り添う2人＝コンプレックス＋少しエロ）を使い、文字だけ差し替え＝主役「先のばしにするほど、／進むこともあります。」、札「まだ大丈夫、と思ってきた／年々、気になってきた／ふたりきりだと、ためらう」。v6を添付して文字だけ直すプロンプトと作り直し用の全文を `_drafts/東京ノーストクリニック_投稿文_2026-10.md` 先頭に。シートNo.6の備考は画像が決まってから書き直す）／2026-10-05（ノースト：今朝の画像（v6・緑）は今月2本目（No.6・10/12）に回し、別の訴求で出す（殿村さん）。推し＝No.6に入れてある「まだ大丈夫」のまま、何年たちましたか？（悩み訴求）。v6の主役は1本目の画像と同じ言葉なので、主役と悩みの3行を変える案。認識合わせ中）／2026-10-05（ノースト：⏸ No.5は阿久津さんに確認依頼中・返事待ち。1（本日配信）なら画像を1枚目に差し替えて予約、2なら指摘をもらって直す）／2026-10-05（ノースト：殿村さんの短い版を確認＝ほぼ良し。選択肢の上に「本日の配信可否につきまして、以下の番号にてご指示いただけますと幸いです。」を戻す案・メンションの付け忘れ注意を返した）／2026-10-05（ノースト：阿久津さんへの連絡文は殿村さんの版で送る（1行目で「本日配信予定（10/5分）の件でご相談」→理由→状況の質問→番号で指示を、の形）。社内の確認の連絡文はこの形を使う）／2026-10-05（ノースト：阿久津さんへの連絡文の最終＝締めは「本日配信したいのですが、いかがでしょうか。」＋9/30と同じ2択（1.本日この内容で配信する／2.変更・調整あり）。前の段の「遅くとも明日には」は消した（聞く日付は本日の1つだけ）。全文は `_drafts/東京ノーストクリニック_投稿文_2026-10.md` 先頭）／2026-10-05（ノースト：先に出すのは1枚目＝阿久津さんに共有済みの画像 `_images/norst_1005_banner_before_1040.jpg`。2週目以降は2枚目（v6・緑が主）の形に寄せる。阿久津さんへの連絡文は「今日の可否／今月は毎週なので今日か明日に」の版に作り直し）／2026-10-05（ノースト：配信は阿久津 執行役員部長の確認（1.本日配信／2.変更・調整あり）を通してから。画像の主役「いざというとき、そのままの自分で大丈夫？」は阿久津さんの指摘（9/30）。今日配信したい旨の連絡文を作った）／2026-10-05（ノースト：No.5は来週にずれる可能性あり（殿村さん）。ずれたら多少直して出す。必ず直すのはリンクの日付だけ。No.6・No.7も後ろにずらすか要判断。修正の中身は確認中）／2026-10-05（ノースト：No.5（10/5）の仮最終の配信方針・内容をまとめた＝`_drafts/東京ノーストクリニック_投稿文_2026-10.md` 先頭。アイテム名・画像（v6＋ロゴ）・テキスト499字・リンク2本・男性全員・21:00（仮））／2026-10-05（ノースト：No.5のプレビューを確認＝テキスト・画像（v6＋ロゴ）・アイテム名とも一致。テキストの最後（電話番号の行）が半分で切れているのはプレビューの表示の都合。確実に見るならテスト配信）／2026-10-05（ノースト：✅No.5のアイテム名は今のまま「見せるのが恥ずかしい…」大切な人にも、隠し続けますか？（殿村さん「おけいです」）。テキストはシートNo.5の文 499字を渡した）／2026-10-05（ノースト：No.5のアイテム名に殿村さんが【特別案内】人肌恋しい季節…朗報です、を検討 → こちらは今の「見せるのが恥ずかしい…」大切な人にも、隠し続けますか？を推す（画像の札・本文とつながる／「朗報です」は3回目／「気になっている方」はぼんやり）。柔らかくするなら9/29の「その気持ち、ひとりで抱えていませんか？」版。判断待ち）／2026-10-05（ノースト：v6の生成物＝文字16か所一致・深緑は無地・寄り添う2人。ロゴを貼った配信用＝`_images/norst_1005_banner_v6_logo_1040.jpg`。別のAIの改善点6つは今日は取り入れない（理由は投稿文_2026-10.md 先頭））／2026-10-05（ノースト：v5の光の筋は「漫画の登場シーン」で不採用、寄り添う2人は残す。余白はB（飾りなし・上の2行を少し大きく）→ v6プロンプトを `_drafts/東京ノーストクリニック_投稿文_2026-10.md` 先頭に。生成物待ち）／2026-10-05（ノースト：殿村さん「左・右上の余白が気になる」「2人を大きくする案を見たい」→ v5プロンプト（2人を絵の主役に＋上の2行を少し広げ、深緑の面にごく薄い放射状の光の筋）を `_drafts/東京ノーストクリニック_投稿文_2026-10.md` 先頭に。生成物待ち）／2026-10-05（ノースト：No.5の画像はv4（肩に頭をあずける版）で十分いける、と返した（殿村さん「こんなバナーもええかぁ」）。ロゴを貼った配信用＝`_images/norst_1005_banner_v4_logo_1040.jpg`）／2026-10-05（ノースト：次回（No.5）の配信内容の想定を仮で出した＝`_drafts/東京ノーストクリニック_投稿文_2026-10.md` 先頭。画像は最後の版（v4）、テキストはシートNo.5の文（499字・URLは20261005_Complex_text）を仮で。未決＝画像を2人を大きくした版にするか／テキストを9/30の「元の案」（358字）にするか）／2026-10-05（インクアート：10/5は下書き保存済み（殿村さん「直ってる大丈夫」）。プレビューでテキストの最後の「👇ご注文はこちらから！」が抜けていた → 意図でなければ足すよう伝えた。「す」だけ落ちる行は「印刷は／それ以降となります」に）／2026-10-05（インクアート：✅10/5のアイテム名＝殿村さん案「✨今年の年賀状、超早割で最大25%OFF！」（21字）で決定）／2026-10-05（インクアート：アイテム名の見直しの推しを「✨毎年の年賀状、今年は超早割で最大25%OFF」に変更（「取引先への」は取引先に出さない人が読み飛ばしやすい）。utm_campaignは前の形とも違いは名前だけで、どちらでも計測できる（殿村さん「そんなに変わらん」）。GA4は `20261005` で探す）／2026-10-05（インクアート：配信のutm_campaignは9/10の実配信 `20260910_Registration_Milion_Coupon` の形にそろえる。10/5のリンク＝`…/lineup/nenga/?utm_source=LINEOA&utm_medium=crm&utm_campaign=20261005_NewYearCard_EarlyBird`。設定画面は確認済み。アイテム名の絵文字は設定のときに試して決める（通った✨／はじかれた🎍）。アイテム名の見直しの推し＝「✨取引先への年賀状、超早割で最大25%OFF」（判断待ち））／2026-10-05（インクアート：10/5の設定中、アイテム名の🎍が「利用できない文字」でエラー → ✨に差し替え）／2026-10-05（インクアート：9/29シール回の詳細画面を再受領＝開いた人255・15.6%（10/1時点236）。約8割は配信当日の夜に開封。テキストの表示は20未満、バナーは281回。実際のアイテム名は「【1枚からOK】✨キラキラシールも好きな形も」）／2026-10-02（インクアート：先方への確認文は殿村さんの版で送る。ランチョンマットは「10/19の卓上カレンダーと組み替えるか」を先方に確認＝10/13のオリジナルカレンダーは残る。返事待ち）／2026-10-02（インクアート：10/5の先方への確認文の下書きを受領。配信は10/5 18:05。送る前の直し4点＝配信内容を確定版に／セグメント「20～64歳」→全員の予定（答え待ち）／ランチョンマットは「キャンペーン内容」でなく「10/19の新商品」と書く／かっこの半角）／2026-10-02（インクアート：✅10/5（年賀状 超早割）の配信文とアイテム名が確定＝殿村さん「これでええんちゃうか」。期限の行は「～10月31日までの／受付分が対象です」）／2026-10-02（インクアート：10/5（年賀状 超早割）はアイテム名を修正なし（「🎍年賀状印刷が最大25%OFF！超早割がスタート」）、配信文は2か所だけ直す＝「ご注文分」→バナーと同じ「受付分」・長い行を12字以内に折る。全文は `_2026-10.md` 先頭）／2026-10-02（インクアート：10/5（年賀状 超早割）の完成版バナーを受領＝`_images/inkart_1005_nenga_hayawari_kansei_1040.jpg`。アイテム名の推し＝「🎍年賀状印刷が最大25%OFF！超早割がスタート」（24字）。配信の推し＝10/5(月) 17:05・全員（9/29の全員配信とそろえる）。テキスト「ご注文分」とバナー「受付分まで」の言い方が1か所違う。先方確認のときにランチョンマットの回と並び替えも一緒に）／2026-10-02（ノースト：No.5（10/5）の画像v4のプロンプトを出した＝寝室の絵だけ色気を足す（肩に頭をあずける・手が重なる・灯りは枕元の1つ）。v3＋ロゴ＝`_images/norst_1005_banner_v3_logo_1040.jpg`。生成物待ち→ロゴを貼り込む→文章とシートNo.5の備考。必ず残す4つ＝緑が主・37年目・診療実績40万件・ロゴ）／2026-10-02（インクアート：ランチョンマットの回（No.29・10/19）と並び替えは⏸先方確認待ち。10/5（年賀状 超早割）のバナーを先方に確認してもらうときに一緒に確認し、変更が出たらすぐ直す（殿村さん「変えるなら直ちに変えよう」））／2026-10-02（インクアート：ランチョンマットの回をシートの行にした＝No.29（10/19）・21列・`_drafts/プリントアース_LINEOA_配信企画案_2026-10.json`。テキスト・備考・画像生成プロンプト全文は `_2026-10.md` 先頭。シートはNo.28（10/13）に卓上カレンダーの中身を移す）／2026-10-02（インクアート：新商品「紙製ランチョンマット」を10月に入れる。並び＝10/5 年賀状→10/13 卓上カレンダー→10/19 ランチョンマット→10/26 締切（殿村さん案）。LP本文は `_data/printearth/lp_paper_placemat_20261002.md`）／2026-10-01（ノースト10月：殿村さんがシートのNo.5を貼付→ 10/5(月) No.5・10/12(月・祝) No.6・10/19(月) No.7 に変更。No.6・7をNo.5と同じ値（全50列）で出した＝`_drafts/東京ノーストクリニック_投稿文_2026-10.json`。No.5はテキストのURLの日付（→20261005_Complex_text）とアイテム名の空欄だけ直す）／2026-10-01（ノースト10月：スキルで3本を作成＝10/3・10/10・10/17(土)。ノーストのシートの並び（27列）で出せるようにした。空欄の列は9月の行をもらって埋める）／2026-10-01（企画案を自動で出す仕組み①＝スキル `lineoa-monthly-plan` を新設。3案件・シート21列。確認中＝納品日の書き方・aaの中身。②材料の置き場所・③月1回の自動下書きはまだ）／2026-10-01（インクアート：10月の配信先＝10/5（超早割スタート）は全員で確定（殿村さん「最初は全員だよ」）・10/13・10/19は約700人・10/26は約700人＋10/5に開いた人。配信戦略の簡潔版を `_drafts/プリントアース_10月の配信戦略まとめ_2026-09-30.md` 先頭に）／2026-10-01（インクアート：前提＝友だちが多いのはCPF（4〜8月の友だち追加広告・流入の9割以上）で集めたから。実際の相手は反応する約650人。9月のまとめの先頭に入れた）／2026-10-01（インクアート：9月の配信結果を簡潔にまとめた＝分析ファイル末尾。GAは件数変わらず＝会員登録4・購入4、全部リッチメニュー経由）／2026-10-01（インクアート：9月の実績を受領＝9/29全員配信 開封14.4%・ブロック2日で+25／9月 新しい友だち+9・ブロック+72。10月の配信先＝9月の約650人＋9/29に開いた人。GAは殿村さんが依頼中）／2026-10-01（ハウス食品：ステイ）／2026-10-01（ハウス食品：全体設計も共有用のmarkdownにまとめた）／2026-10-01（ハウス食品：運用計画を共有用のmarkdownにまとめた）／2026-10-01（ハウス食品：最初の1週間の徹底・ステップ配信例5本・冬の企画案をざっくり置いて本日終了）／2026-10-01（ハウス食品：運用の落とし込み＝目標→1日の数字とやることを設計ファイルに・スライドにはしない）／2026-10-01（ハウス食品：方針確定＝グループのLINEとは別にカモンハウスのLINEを新しく作って運用・コンセプト＝食と健康でつながるコミュニティ）／2026-10-01（ハウス食品：「今あるLINE」＝カモンハウスの広告用のLINEと訂正。新しく作る／今あるのを動かす の違いと推しを設計ファイルに）／2026-10-01（ハウス食品：①ステップ初動5本・2週間 ②通知メッセなし ③既存会員への告知はメルマガ頼み、で決定。根拠と「今あるグループ公式LINEを動かす場合」の違いを設計ファイルに）／2026-10-01（ハウス食品：ver2を基に全体設計・初動設計の骨組みを提案）／2026-10-01（ハウス食品グループ＝Come on Houseが3件目になりそう・提案書と案件メモを保存）／2026-09-30（インクアート：10月の配信戦略まとめを作成／ノースト：3本目は配信予約済・先方確認待ち）／2026-09-30（ノースト：3本目はテキスト＝元の案・アイテム名＝直した案で配信）／2026-09-30（インクアート：サンクス＋離脱防止の提案PPTX 12枚を縮小版に作り直し＝`20260930_インクアート様_LINE公式アカウント_10月以降のご提案.pptx`）／2026-09-29 20時半（ノースト：3本目は9/30(水)に変更）／2026-09-29 20時（ノースト：9/29は候補A＝直した版／候補B＝元の版の2つを保持・先方確認待ち）／2026-09-29（ノースト：9/29の3本目をシートどおり＝男性全員で確定・バナー `_images/norst_0929_banner.webp`／インクアート：No.25シールを9/29 17:05・全員 約1,635人で配信確定。バナーは先方差し戻しを受けて「自由形状カット・ホログラム加工」版に差し替え。9月の数値分析は3本分済み・ノーストの分も受領済み）／2026-09-25（ノースト：10/9の1本目が本文・備考・プロンプトまで完成＝悩み訴求「まだ大丈夫」のまま、何年たちましたか？。詳細は下の表の行）／**ノーストのSW訴求（新2本目）は9/24に配信済み（9/25昼の時点で反響なし）**／それ以前 2026-09-24（ノースト：9/25＝新2本目「シルバーウィーク訴求」全配信7,347・21:00で**配信予約済み**→実際は9/24配信・通数の数え方を訂正（1配信＝1人1通）・3本目は9/29のまま・旧2本目は無視／インクアート：10月ステイ解除・先方依頼の「年賀状 超早割（最大25%OFF・～10/31）」を10/5に置き年賀状の回は1本に。No.24は名刺押しに微修正・バナーは実物名刺の写真で確定（先方確認中）。10月はNo.27の8欄が揃い一旦ステイ。**同日、配信設計（9/25 No.24・9/28 No.25）を確定**＝No.23と同じ設定（20〜64歳・テキスト→バナー）・No.24のutmは20260925に・9月通数 約4,100／5,000・10月はシート4本とも全員で5,600なので10/26だけ絞り込み・待ち＝9/18の実績4つ）
 
 > **✅ 2026-09-01、散らばっていた成果物を全てこのブランチに集約した。**
 > 以前は完成品が各作業ブランチに散在していたが、現在は**このブランチに全部入っている**。

diff --git a/_drafts/東京ノーストクリニック_投稿文_2026-10.md b/_drafts/東京ノーストクリニック_投稿文_2026-10.md
@@ -17,7 +17,8 @@
 1. 安心の事実をアイコンで横に並べる列（5枚すべて）。上野「完全個室」「入院なし日帰りOK」「全国12院 駅チカ」、アトム「日帰り 約30分」「痛みを抑えた手術」「周囲に配慮したプライバシー」、東京上野「通院1回」「完全個室」「勧誘一切なし」「アフター充実」。
    ノーストなら「完全個室」「男性スタッフのみ」「全国に36院」「その日に決めなくてOK」。治療の中身ではないので、医療広告の決まりの中で使える（類型Cのまま）。「男性スタッフのみ」は5枚のどこにも無い（9月の実機画面16枚とも同じ）。
    ⚠「完全個室」は9/24に検索で取った事実。先方確認で見てもらう。
-2. 実績を月桂樹のバッジで大きく見せる形（上野「創業35年・診療実績35万件」、アトム「施術実績25,000件以上」）。ノーストの「37年目・診療実績40万件」は年数も件数も上野より大きい。
+2. 実績を大きく見せる形（上野「創業35年・診療実績35万件」、アトム「施術実績25,000件以上」）。ノーストの「37年目・診療実績40万件」は年数も件数も上野より大きい。
+   ⚠ 競合が使っている月桂樹の飾りは借りない（ノーストの物ではない）。ノーストは過去のバナーと同じ白い円＋オレンジの輪で見せる（10/8）。
    他院と比べる言い方（No.1・他院より多い等）は医療広告でできないので、数字を大きく置くだけにする。
 3. 本人の気持ちだけで押す一言（アトム）。「ずっと気になってた…」→「今こそ、自分のために一歩踏み出す。」、「悩むより、相談する。」。恋人の話にも年齢の話にもしていない＝ノーストの「年齢で寄せない」「エロだけにしない」に合う。
    ノーストは「相談」を主役にしない（9/10）ので、使うなら行き先をカウンセリングにする（例「悩むより、まず無料カウンセリング。」）。
@@ -39,7 +40,7 @@
 
 **→ 2026-10-08 殿村さん「もう少し簡潔にして」→ 4つと使わないもの、推しだけの短い版で返した。続けて「ラフなデザインでいいので出して」→ No.7のラフを組んだ。**
 - ラフ＝`_images/norst_1019_rough_1040.jpg`（作り方 `python3 _build/build_norst_1019_rough.py`。文字はこちらで組んだので一字も崩れない）
-- 上の深緑の面＝ロゴ（左上）／月桂樹のバッジ「37年目・診療実績40万件」（右上）／心の声の吹き出し「「行ったら、断れなさそう…」」／
+- 上の深緑の面＝ロゴ（左上）／実績の円「37年目・診療実績40万件」（右上・白い円＋オレンジの輪）／心の声の吹き出し「「行ったら、断れなさそう…」」／
   主役の上「包茎治療の無料カウンセリングは、」／主役「その日に決めなくても、」「大丈夫です。」（オレンジ・白フチ）
 - 下の淡水色の面＝アイコンの列4つ（完全個室／男性スタッフのみ／全国に36院／カウンセリング無料）／
   当日の流れの帯（①ご予約 ②完全個室で1対1 ③治療法やご不安をご相談）／予約ボタン（下の中央に横長）／注記
@@ -51,7 +52,10 @@
 - A 安心の事実を並べる＝`_images/norst_rough_A_icon_1040.jpg`（上のNo.7のラフと同じ）
 - B 2つを比べる＝`_images/norst_rough_B_vs_1040.jpg`（主役「ひとりで悩み続けるか、／一度、確かめるか。」・左「ひとりで悩み続ける」×3／右「無料カウンセリングで確かめる」✓3＝今の状態を確かめられる・その日に決めなくてOK・スタッフは男性のみ・＼全国に36院開設／）
 - C 自分のための一言＝`_images/norst_rough_C_jibun_1040.jpg`（「ずっと、気になっていた…」→主役「今年のうちに、／自分のために一歩。」・写真の場所は仮の枠＝窓辺に立つ男性の後ろ姿・男性スタッフのみ／完全個室／全国に36院）
-- 3つとも緑が主・ロゴ・37年目・診療実績40万件・下の中央の予約ボタン。文字はこちらで組んだので崩れない。月桂樹のバッジは3つとも同じ（浮くなら円に戻す）。
+- 3つとも緑が主・ロゴ・37年目・診療実績40万件・下の中央の予約ボタン。文字はこちらで組んだので崩れない。実績は3つとも右上の白い円（オレンジの輪）。
+
+**→ 2026-10-08 殿村さん「ノーストに月桂樹ではないっていう話じゃないの？なんでまだ入れてんだ」→ 3つとも月桂樹を外し、過去のノーストのバナー（v11の円）と同じ白い円＋太いオレンジの輪に替えた。**
+- ★学び：「ノーストの物ではない」と自分で言った物は、その場で外して出し直す。「浮くなら戻す」と相手に判断を預けない。
 
 ## ★★★2026-10-05 今朝の画像（v6）は今月2本目（No.6）に回す。v6を基に、別の訴求で出す（認識合わせ中）
 

diff --git a/CLAUDE.md b/CLAUDE.md
@@ -2320,12 +2320,12 @@ pdftoppm -jpeg -r 150 <file>.pdf out
     **→ 10/7 競合の画像5枚を受領（殿村さん「こちらはしっかり活用できるかと」）＝`_data/norst/competitor_20261007_*.png`（上野の「抜糸あり・なし」を比べる形／アトム「悩むより、相談する。」／
     アトム「今こそ、自分のために一歩踏み出す。」／東京上野「通院1回、50分で包茎卒業!」／上野「50代からの新しい決断」）。10/2の9枚とは別の画像。**
     借りられる4つ＝①安心の事実をアイコンで並べる列（ノーストなら「完全個室」「男性スタッフのみ」「全国に36院」「その日に決めなくてOK」。「男性スタッフのみ」は5枚のどこにも無い）
-    ②実績を月桂樹のバッジで大きく（ノーストの37年目・40万件は上野の35年・35万件より大きい。比べる言い方はしない）③本人の気持ちだけで押す一言（アトム。「相談」はカウンセリングに置き換える）
+    ②実績を大きく（※月桂樹は10/8に外した。ノーストの37年目・40万件は上野の35年・35万件より大きい。比べる言い方はしない）③本人の気持ちだけで押す一言（アトム。「相談」はカウンセリングに置き換える）
     ④左右に並べて比べる形（中身を「ひとりで悩み続ける」と「無料カウンセリングで確かめる」に変える）。
     借りない＝価格・割引／通院1回・50分・抜糸なし（治療の中身・期間＝必須表示5点が要る）／包茎卒業・今日で終わり（結果の約束）／50代・介護（9/25）。
     推し＝10/19 No.7（当日の流れ・画像はまだ）に①②、③④は11月の「年内に」の回。OK待ち。全文は `_2026-10.md` 先頭。
     **→ 10/8 殿村さん「もう少し簡潔にして」→ 短い版で返した。「ラフなデザインでいいので出して」→ No.7のラフ＝`_images/norst_1019_rough_1040.jpg`
-    （`_build/build_norst_1019_rough.py`。深緑の面にロゴ・月桂樹のバッジ・心の声「行ったら、断れなさそう…」・主役「その日に決めなくても、大丈夫です。」／
+    （`_build/build_norst_1019_rough.py`。深緑の面にロゴ・実績の円（当初は月桂樹→10/8に外した）・心の声「行ったら、断れなさそう…」・主役「その日に決めなくても、大丈夫です。」／
     淡水色の面にアイコン4つ（完全個室・男性スタッフのみ・全国に36院・カウンセリング無料）・当日の流れの帯・予約ボタン）。絵は入れずアイコンの列を絵の代わりにした。確認待ち。**
     **→ 10/8 殿村さん「月桂樹ってノーストのシンボル？／ノーストはエロや画像より文字と実績が受けるのか」→ 答え：月桂樹はノーストの物ではなく、上野・アトムが実績を見せる定番の飾りを借りただけ（浮くなら円に戻してよい）。
     どちらが受けるかはまだ数字で言えない（結果が出たのは9/16・9/24の2本だけで、画像の組み方は同じ）。言えるのは①開いた人の約9割は画像だけを見る（テキストは約1割）②押した割合は訴求を変えても約3%で同じ。
@@ -2333,6 +2333,8 @@ pdftoppm -jpeg -r 150 <file>.pdf out
     確かめ方＝10/12（少しエロ寄り）と10/19（実績と安心）を同じ配信先・同じ時間で出して、開いた率と押した率を比べる。10/12の詳細画面は10/15以降にもらう。**
     **→ 10/8 殿村さん「ノーストのラフなデザインを作成してほしいんですよ」→ 競合から借りた型ごとに3パターン＝見比べ用 `_images/norst_rough_ABC_sheet.jpg`（`_build/build_norst_rough_patterns.py`）。
     A 安心の事実を並べる（No.7のラフ）／B 2つを比べる（ひとりで悩み続けるか、一度、確かめるか。）／C 自分のための一言（今年のうちに、自分のために一歩。写真は仮の枠）。どれを使うか確認待ち。**
+    **→ 10/8 殿村さん「ノーストに月桂樹ではないっていう話じゃないの？なんでまだ入れてんだ」→ 3つとも月桂樹を外し、過去のバナー（v11）と同じ白い円＋太いオレンジの輪に替えた。
+    ★学び：「この案件の物ではない」と自分で言った物は、その場で外して出し直す。「浮くなら戻す」と殿村さんに判断を預けない。ノーストの実績は月桂樹ではなく白い円で見せる。**
 - 2026-10-02: **インクアートの次の配信＝10/5(月)・年賀状 超早割のお知らせ（全員）。時間の推し＝17:05**（殿村さん「次の配信日時っていつにする？」）。
   前回の全員配信（9/29 シール・月曜17:05）とそろえれば、開封率を中身の違いだけで比べられる。ADレポでも注文が入りやすいのは14〜18時。
   予約は先方のバナー確認（ランチョンマットの件も一緒に）が戻ってから。

diff --git a/.claude/skills/lineoa-monthly-plan/clients/norst.md b/.claude/skills/lineoa-monthly-plan/clients/norst.md
@@ -139,7 +139,7 @@ TEL：0120-12-7411
   一人で悩む姿は、背中を少し丸めてよい（10/6 殿村さん「背筋は丸めてええんちゃうか」）。暗く沈ませないのは灯りの暖かさで保つ（顔は描かない）
 - **競合から借りる組み方（2026-10-07 殿村さん受領の5枚・`_data/norst/competitor_20261007_*.png`）**：
   安心の事実をアイコンで横に並べる列（ノーストなら「完全個室」「男性スタッフのみ」「全国に36院」「その日に決めなくてOK」）／
-  実績を月桂樹のバッジで大きく（37年目・診療実績40万件。他院と比べる言い方はしない）／本人の気持ちだけで押す一言（アトム「今こそ、自分のために一歩踏み出す。」型。「相談」はカウンセリングに置き換える）／
+  実績を大きく（37年目・診療実績40万件。★月桂樹は競合の飾りなので使わない。ノーストの白い円＋太いオレンジの輪で見せる。他院と比べる言い方はしない）／本人の気持ちだけで押す一言（アトム「今こそ、自分のために一歩踏み出す。」型。「相談」はカウンセリングに置き換える）／
   左右に並べて比べる形（比べる中身は「ひとりで悩み続ける」と「無料カウンセリングで確かめる」。治療の方法は比べない）。
   借りない：価格・割引／「通院1回」「50分」「抜糸なし」「日帰り」（治療の中身・期間＝必須表示5点が要る）／「卒業」「今日で終わり」（結果の約束）／年齢・介護の切り口
 
